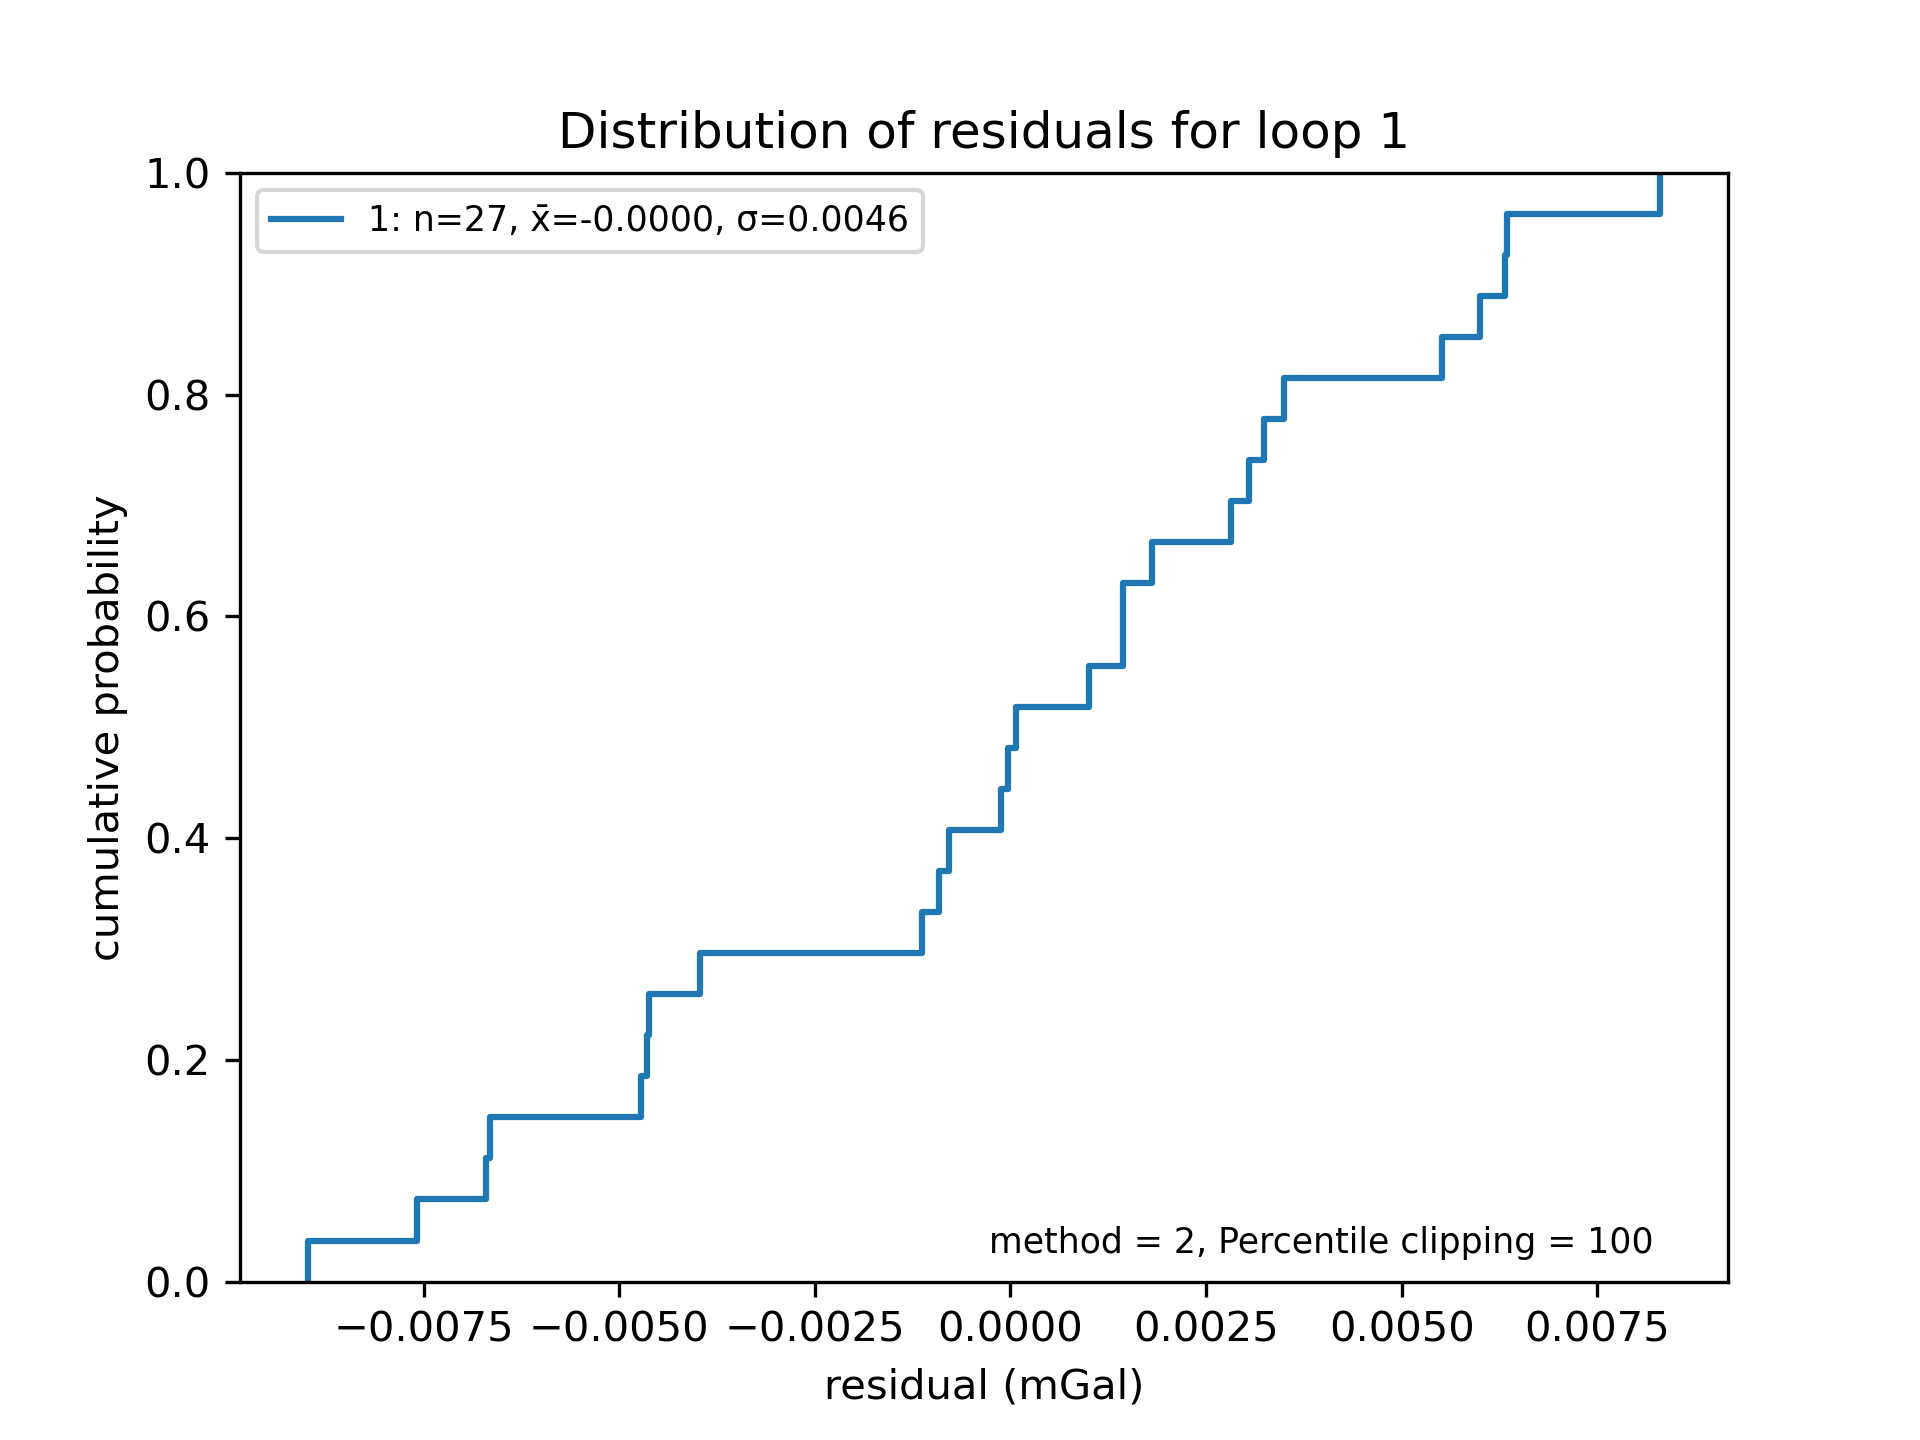
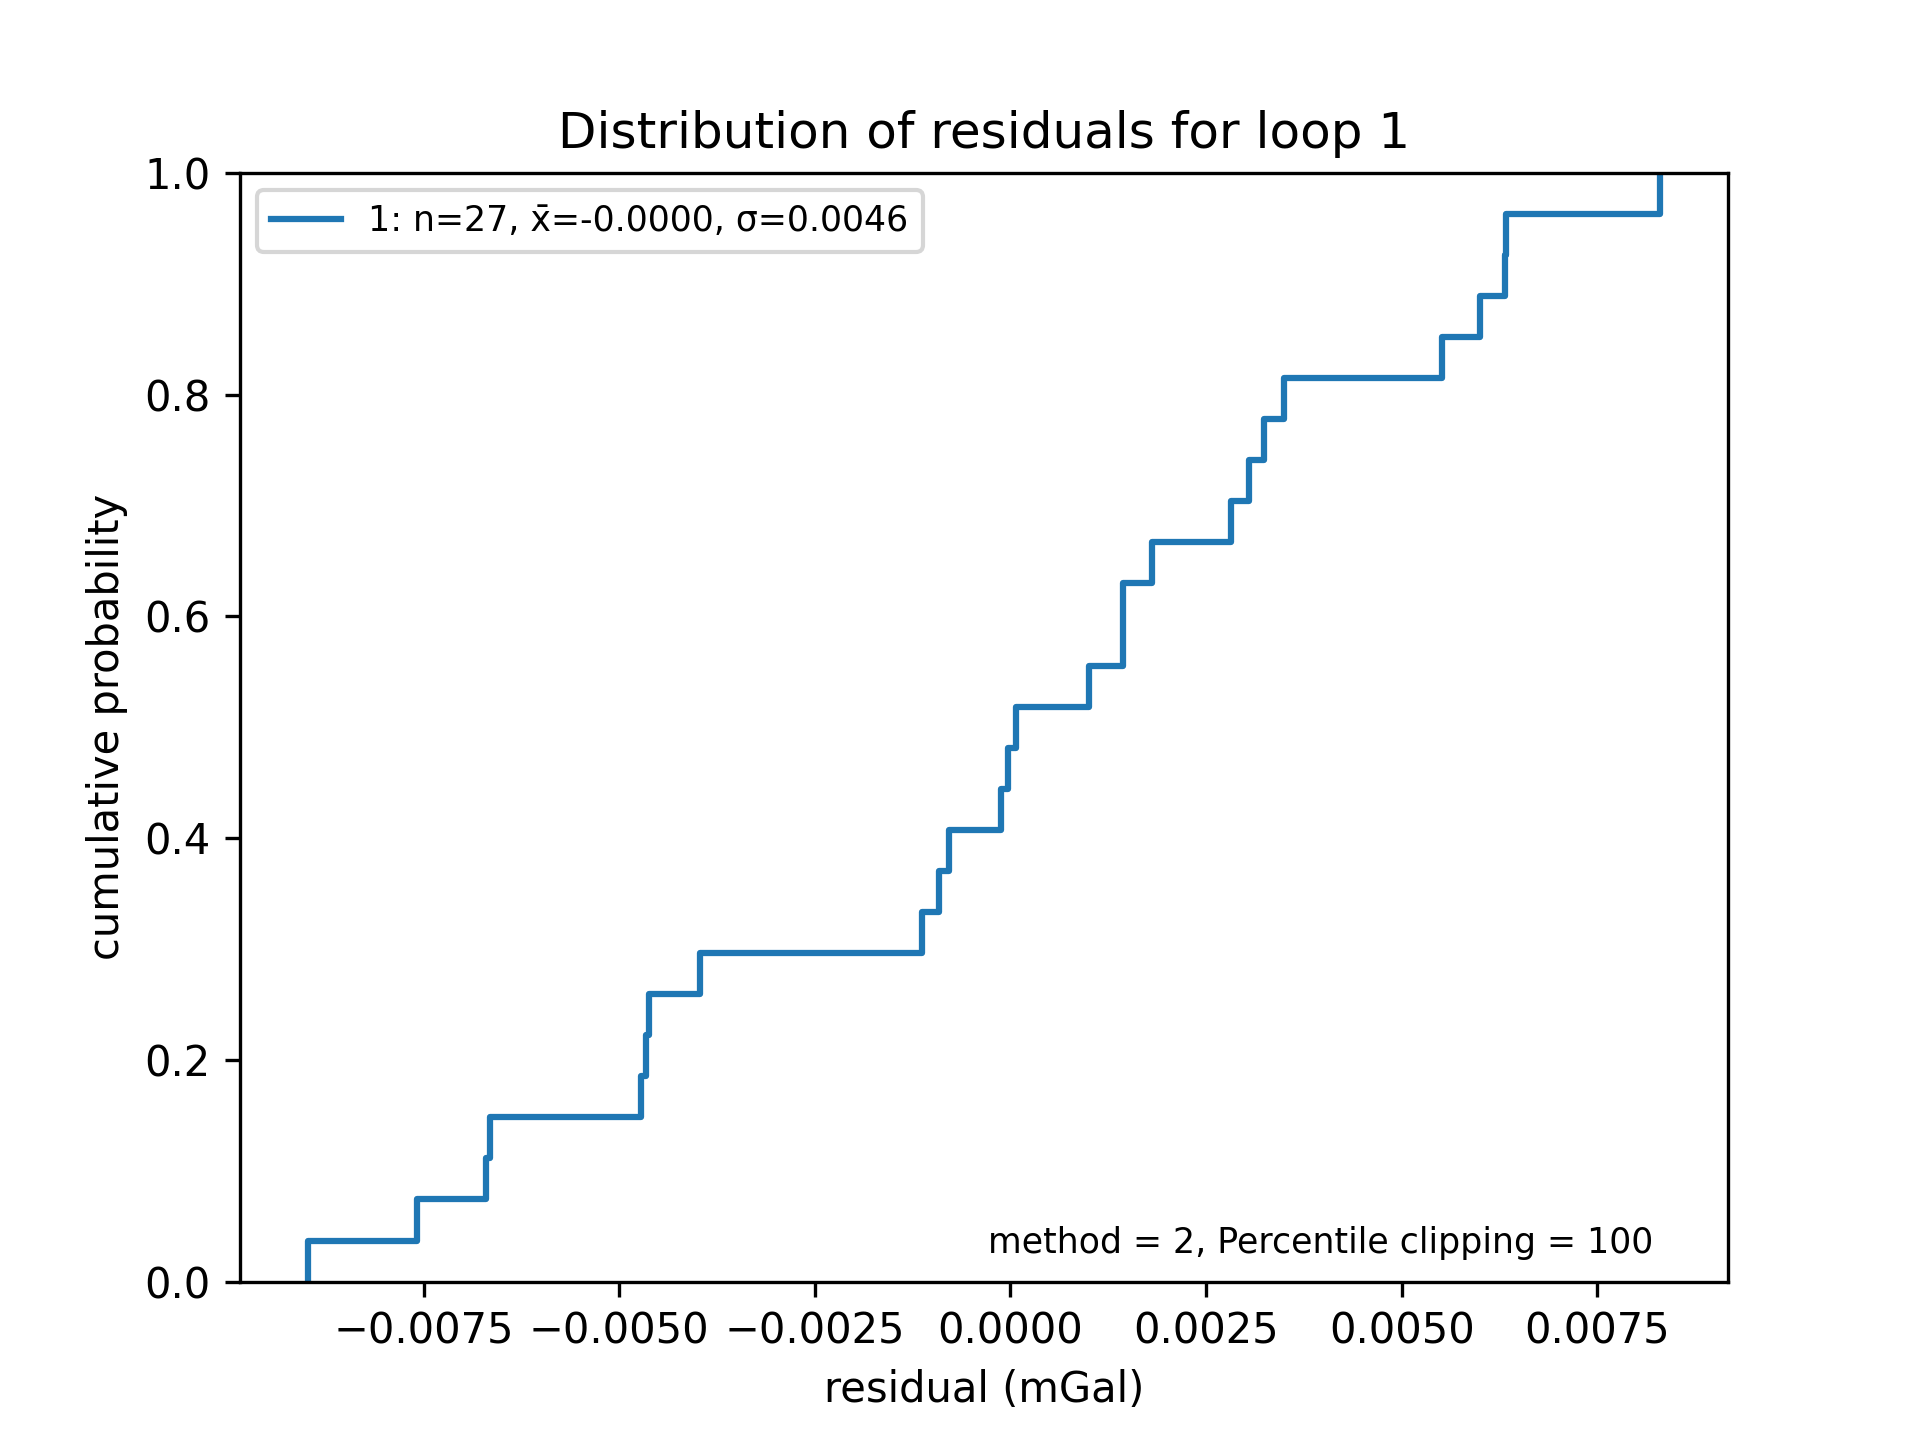
Calibration: separate out to discrete calibration factor methods
- update related methods and documentation
- update example script

diff --git a/src/gsolve/gsolve_algorithms.py b/src/gsolve/gsolve_algorithms.py
@@ -116,6 +116,87 @@ def call_gsolve_lstsq(
     return results_obj
 
 
+def call_g_solver_calibration(
+    obs: _pd.DataFrame,
+    ref_sites: _pd.DataFrame,
+    method: GSolveSolverMethod,
+    percentile_clipping: float = 100,
+    use_loops: bool = True,
+    calculate_calibration_factor: bool = False,
+) -> GSolveResults:
+    """Calculate drift and adjust gravity observations.
+
+    Parameters
+    ----------
+    obs : DataFrame
+        The gravity observations to be corrected. The DataFrame must
+        include columns labeled ``site_id``, ``gravity``, ``timedelta``, and ``loop``.
+        Other columns are ignored.
+        If ``calculate_calibration_factor`` is True, then obs must also include a column
+        labeled 'gravity_not_detided'.
+    ref_sites : DataFrame
+        The reference sites that gravity will be 'tied' to after drift
+    method : {1, 2, 3}
+        The gsolve solution method to use. Available methods are:
+
+            - ``1`` : Unconstrained least squares
+            - ``2`` : Partially constrained least squares
+            - ``3`` : Constrained least squares
+
+    percentile_clipping: float, default=100.0
+        Exclude observations with residuals outside percentile range from
+        the final gsolve solution. Must be between a value between 0 and 100.
+        The default is 100.0, which means no clipping. Clipping is symmetric,
+        so if 99.0 is specified, the upper and lower 0.5% of residuals are excluded.
+    use_loops : bool, default True
+        Control how survey loops are treated in the solution.
+        If True, drift curves are fit to each loop.
+        If False, a single drift curve is fit to all observations.
+    calculate_calibration_factor: bool, default False
+        Calculate gravity meter calibration factor.
+
+    Returns
+    -------
+    GSolveResults
+        An object containing the computed drift curves, observation and
+        site residuals, and the model run parameters.
+    """
+    # index in obs where ties are located
+    m_ties = ref_sites.index.intersection(obs["site_id"].to_list())
+    if m_ties.empty:
+        raise ValueError("no tie sites")
+    else:
+        ref_sites = ref_sites.loc[m_ties]
+
+    # set up g_solver_lstsq input arguments
+    kwargs: dict[str, Any] = {
+        "obs_g": obs["gravity"].to_numpy(),
+        "obs_site_id": obs["site_id"].to_numpy(),
+        "obs_timedelta": obs["timedelta"].to_numpy(),
+        "ties_site_id": ref_sites.index.to_numpy(),
+        "ties_g": ref_sites.loc[:, "reference_gravity"].astype(float).to_numpy(),
+        "use_loops": use_loops,
+        "obs_loop": obs["loop"].to_numpy(),
+        "method": method,
+        "calculate_calibration_factor": True,
+        "percentile_clipping": percentile_clipping,
+        "obs_g_not_detided": obs["meter_reading_mgal"].to_numpy(),
+    }
+
+    results = g_solver_lstsq(**kwargs)
+
+    results_obj = GSolveResults(
+        method=method,
+        use_loops=use_loops,
+        calculate_calibration_factor=True,
+        percentile_clipping=percentile_clipping,
+    )
+    results_obj.set_inputs(obs, ref_sites)
+    results_obj.set_solutions(results)
+    return results_obj
+
+
+
 def g_solver_lstsq(
     obs_g: _np.ndarray,
     obs_site_id: _np.ndarray,

diff --git a/src/gsolve/observations.py b/src/gsolve/observations.py
@@ -50,7 +50,7 @@ from gsolve.core.utils import (
     prepare_writable_df,
     to_naive_utc_datetime,
 )
-from gsolve.gsolve_algorithms import GSolveSolverMethod, call_gsolve_lstsq
+from gsolve.gsolve_algorithms import GSolveSolverMethod, call_g_solver_calibration, call_gsolve_lstsq
 from gsolve.gsolve_outputs import GSolveResults
 from gsolve.meter_conversion import MeterReadingConverter
 from gsolve.sites import GravitySites, ReferenceGravity, combine_gravity_sites
@@ -1606,7 +1606,6 @@ class GravitySurvey:
         method: GSolveSolverMethod,
         percentile_clipping: float = 100,
         use_loops: bool = True,
-        calculate_calibration_factor: bool = False,
     ) -> GSolveResults:
         """Perform network adjustment on gravity observations.
 
@@ -1620,8 +1619,6 @@ class GravitySurvey:
         use_loops : bool, default=True
             If True, compute drift on a loop-by-loop basis. If False, compute a single
             drift adjustmen for all data.
-        calculate_calibration_factor : bool, default=False
-            If True, calculate the calibration factor during the adjustment.
 
         Returns
         -------
@@ -1646,7 +1643,54 @@ class GravitySurvey:
             method=method,
             percentile_clipping=percentile_clipping,
             use_loops=use_loops,
-            calculate_calibration_factor=calculate_calibration_factor,
+        )
+        return results
+
+    def solve_calibration_factor(
+        self,
+        method: GSolveSolverMethod,
+        percentile_clipping: float = 100,
+        use_loops: bool = True,
+    ) -> GSolveResults:
+        """Solve for gravity meter calibration factor.
+
+        Something something.
+
+        Parameters
+        ----------
+        method : GSolveSolverMethod
+            The solver method to use for the least squares adjustment.
+        percentile_clipping : float, default=100
+            The percentile of residuals to use for clipping.  Values outside this
+            percentile will be excluded from the adjustment.  Must be between 0 and 100.
+        use_loops : bool, default=True
+            If True, compute drift on a loop-by-loop basis. If False, compute a single
+            drift adjustmen for all data.
+
+        Returns
+        -------
+        GSolveResults
+            The results of the network adjustment.
+        """
+        self.observations.set_tdelta()
+
+        td_column = "loop_tdelta" if use_loops else "survey_tdelta"
+
+        isactive = self.observations.data["active"]
+        cols = ["site_id", td_column, "loop", "gravity_corr", "meter_reading_mgal"]
+        obs = (
+            self.observations.data.loc[isactive, cols]
+            .copy()
+            .rename(columns={td_column: "timedelta", "gravity_corr": "gravity"})
+        )
+        ties = self.sites.get_ties()
+        results = call_g_solver_calibration(
+            obs=obs,
+            ref_sites=ties,
+            method=method,
+            percentile_clipping=percentile_clipping,
+            use_loops=use_loops,
+            calculate_calibration_factor=True,
         )
         return results
 

diff --git a/examples/scripts/calibration_survey_example.py b/examples/scripts/calibration_survey_example.py
@@ -88,8 +88,8 @@ Here we use solve method "2", as we have high confidence in our absolute station
 We process each loop individually and apply a 99 percentile cutoff filter to the residuals.
 """
 
-results = survey.solve_lstsq(
-    method=2, use_loops=True, calculate_calibration_factor=True, percentile_clipping=100
+results = survey.solve_calibration_factor(
+    method=2, use_loops=True, percentile_clipping=100
 )
 
 # results.site_solution contains the adjusted gravity per station
@@ -114,7 +114,7 @@ _ = results.plot_residual_cdf(
 # as individual csv files
 results.site_solution.to_csv(cal_data_path / "calibration_site_solution.csv")
 results.obs_solution.to_csv(cal_data_path / "calibration_observations_solution.csv")
-
+print(results.params.to_dict())
 # # or save as single excel
 # report = GSolveReport(survey, results)
 # report.to_excel(cal_data_path / "calibration_survey_results.xlsx")
